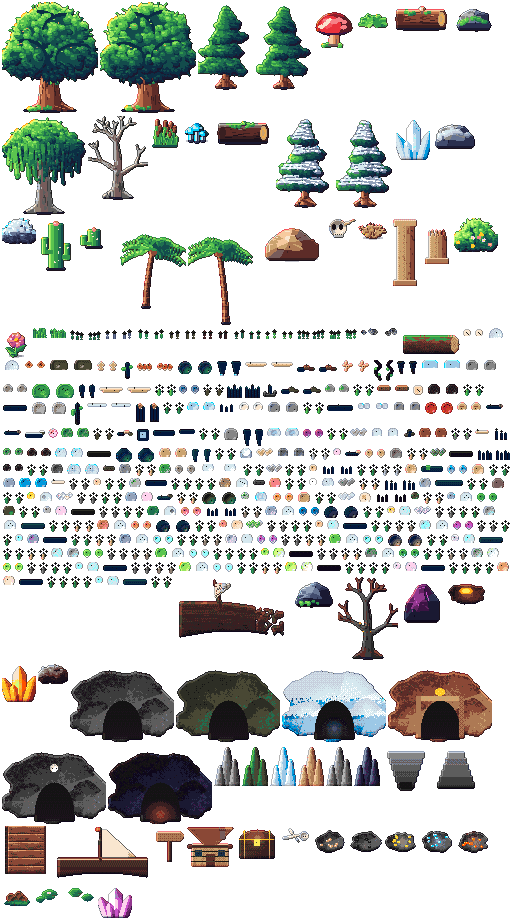
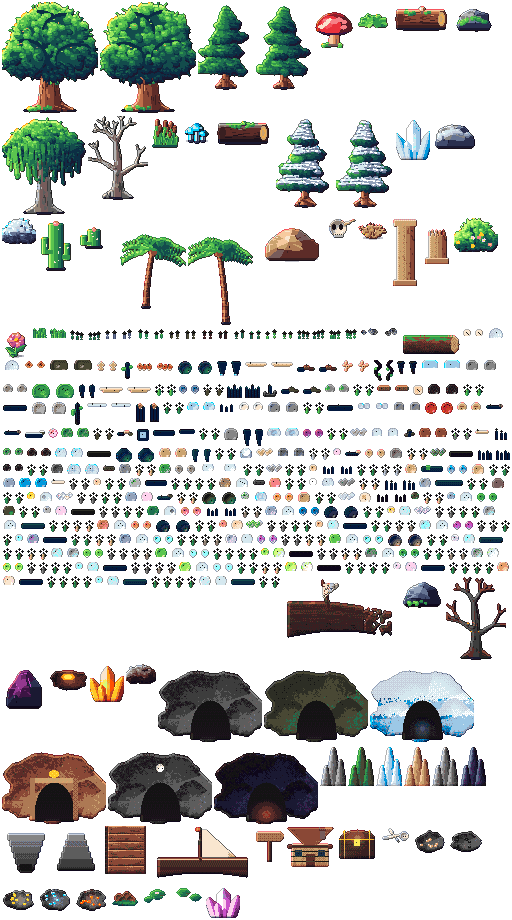
Ciclos 631-640/1000: 5 props (atlas 542) + testes raids/rebirth + evento escorpião dourado + dica

Changed region(s): [[0.0, 0.6087, 1.0, 1.0]]

diff --git a/src/game/RegionWorld.js b/src/game/RegionWorld.js
@@ -33,12 +33,12 @@ const INTERACT_RANGE = 70;
 
 // Objetos por terreno: [frame, peso, sólido?]. Sólido = base que bloqueia (largura, altura).
 const PROPS = {
-  [T.FOREST]: { density: 0.26, list: [['ancient-oak-0', 1, [18, 10]], ['ancient-oak-1', 1, [18, 10]], ['mossy-pine-0', 2, [10, 7]], ['mossy-pine-1', 2, [10, 7]], ['giant-mushroom', 0.6, [10, 6]], ['fern', 3], ['fallen-log', 0.6, [40, 10]], ['mossy-rock', 1, [24, 10]], ['grass-tuft-0', 4], ['grass-tuft-1', 4], ['flower-tuft-0', 1.2], ['flower-tuft-1', 1.2], ['forest-flower-0', 0.8], ['forest-flower-1', 0.8], ['pebbles-0', 0.7], ['pebbles-1', 0.7], ['mushroom-cluster-0', 0.5], ['mushroom-cluster-1', 0.5], ['berry-bush-0', 0.6], ['berry-bush-1', 0.6], ['yellow-flower-0', 0.7], ['yellow-flower-1', 0.7], ['bark-scrap-0', 0.5], ['bark-scrap-1', 0.5], ['pink-flower-0', 0.6], ['pink-flower-1', 0.6], ['rotten-log', 0.4, [30, 9]], ['red-cap-0', 0.4], ['red-cap-1', 0.4], ['tan-shroom-0', 0.4], ['tan-shroom-1', 0.4], ['orange-shroom-0', 0.4], ['orange-shroom-1', 0.4], ['pink-shroom-0', 0.4], ['pink-shroom-1', 0.4], ['coral-shroom-0', 0.4], ['coral-shroom-1', 0.4], ['violet-shroom-0', 0.4], ['violet-shroom-1', 0.4], ['lilac-shroom-0', 0.4], ['lilac-shroom-1', 0.4], ['light-green-shroom-0', 0.4], ['light-green-shroom-1', 0.4], ['mossy-log', 0.35, [28, 8]], ['light-purple-flower-0', 0.5], ['light-purple-flower-1', 0.5], ['peach-forest-flower-0', 0.5], ['peach-forest-flower-1', 0.5], ['blue-forest-flower-0', 0.5], ['blue-forest-flower-1', 0.5], ['teal-forest-flower-0', 0.5], ['teal-forest-flower-1', 0.5], ['hot-pink-flower-0', 0.5], ['hot-pink-flower-1', 0.5], ['turquoise-forest-flower-0', 0.5], ['turquoise-forest-flower-1', 0.5], ['lilac-forest-flower-0', 0.5], ['lilac-forest-flower-1', 0.5], ['light-green-forest-flower-0', 0.5], ['light-green-forest-flower-1', 0.5], ['pale-green-forest-flower-0', 0.5], ['pale-green-forest-flower-1', 0.5], ['pale-lilac-forest-flower-0', 0.5], ['pale-lilac-forest-flower-1', 0.5], ['pale-coral-forest-flower-0', 0.5], ['pale-coral-forest-flower-1', 0.5], ['pale-turquoise-forest-flower-0', 0.5], ['pale-turquoise-forest-flower-1', 0.5], ['dark-bark', 0.5], ['blush-forest-flower-0', 0.5], ['blush-forest-flower-1', 0.5], ['forest-gravel', 0.6], ['forest-branch', 0.5], ['yellow-forest-bush-0', 0.5], ['yellow-forest-bush-1', 0.5], ['rotten-forest-log', 0.3, [30, 9]], ['forest-boulder', 0.3, [14, 8]]] },
-  [T.SWAMP]: { density: 0.17, list: [['willow', 1.4, [14, 9]], ['dead-tree', 1.4, [10, 7]], ['reeds', 3], ['swamp-shroom', 1.2], ['bog-log', 0.5, [40, 10]], ['mossy-rock', 0.5, [24, 10]], ['grass-tuft-0', 3], ['flower-tuft-1', 0.6], ['swamp-flower-0', 0.6], ['swamp-flower-1', 0.6], ['mud-puddle-0', 0.5], ['mud-puddle-1', 0.5], ['twisted-root-0', 0.5], ['twisted-root-1', 0.5], ['river-stone-0', 0.5, [10, 6]], ['river-stone-1', 0.5, [10, 6]], ['blue-mushroom-0', 0.5], ['blue-mushroom-1', 0.5], ['moss-pebble-0', 0.6], ['moss-pebble-1', 0.6], ['reed-0', 0.7], ['reed-1', 0.7], ['green-stone-0', 0.5, [10, 6]], ['green-stone-1', 0.5, [10, 6]], ['lilac-flower-0', 0.5], ['lilac-flower-1', 0.5], ['swamp-root', 0.5], ['swamp-pebble-0', 0.5], ['swamp-pebble-1', 0.5], ['yellow-swamp-flower-0', 0.5], ['yellow-swamp-flower-1', 0.5], ['swamp-gravel', 0.6], ['pink-swamp-flower-0', 0.5], ['pink-swamp-flower-1', 0.5], ['dark-river-stone', 0.5, [10, 6]], ['gray-shroom-0', 0.4], ['gray-shroom-1', 0.4], ['green-shroom-0', 0.4], ['green-shroom-1', 0.4], ['navy-shroom-0', 0.4], ['navy-shroom-1', 0.4], ['turquoise-shroom-0', 0.4], ['turquoise-shroom-1', 0.4], ['teal-swamp-shroom-0', 0.4], ['teal-swamp-shroom-1', 0.4], ['sea-green-swamp-shroom-0', 0.4], ['sea-green-swamp-shroom-1', 0.4], ['dark-sea-green-swamp-shroom-0', 0.4], ['dark-sea-green-swamp-shroom-1', 0.4], ['light-green-swamp-shroom-0', 0.4], ['light-green-swamp-shroom-1', 0.4], ['light-sea-green-swamp-shroom-0', 0.4], ['light-sea-green-swamp-shroom-1', 0.4], ['white-swamp-flower-0', 0.5], ['white-swamp-flower-1', 0.5], ['light-blue-shroom-0', 0.4], ['light-blue-shroom-1', 0.4], ['light-river-stone', 0.5, [10, 6]], ['blue-swamp-flower-0', 0.5], ['blue-swamp-flower-1', 0.5], ['orange-swamp-flower-0', 0.5], ['orange-swamp-flower-1', 0.5], ['teal-swamp-flower-0', 0.5], ['teal-swamp-flower-1', 0.5], ['gold-swamp-flower-0', 0.5], ['gold-swamp-flower-1', 0.5], ['dark-purple-swamp-flower-0', 0.5], ['dark-purple-swamp-flower-1', 0.5], ['coral-swamp-flower-0', 0.5], ['coral-swamp-flower-1', 0.5], ['turquoise-swamp-flower-0', 0.5], ['turquoise-swamp-flower-1', 0.5], ['lilac-swamp-flower-0', 0.5], ['lilac-swamp-flower-1', 0.5], ['green-swamp-flower-0', 0.5], ['green-swamp-flower-1', 0.5], ['sea-green-swamp-flower-0', 0.5], ['sea-green-swamp-flower-1', 0.5], ['light-green-swamp-flower-0', 0.5], ['light-green-swamp-flower-1', 0.5], ['pale-lilac-swamp-flower-0', 0.5], ['pale-lilac-swamp-flower-1', 0.5], ['pale-coral-swamp-flower-0', 0.5], ['pale-coral-swamp-flower-1', 0.5], ['pale-turquoise-swamp-flower-0', 0.5], ['pale-turquoise-swamp-flower-1', 0.5], ['muddy-swamp-log', 0.3, [30, 9]], ['pale-swamp-log', 0.3, [30, 9]], ['white-flowered-swamp-bush-0', 0.4], ['white-flowered-swamp-bush-1', 0.4]] },
-  [T.SNOW]: { density: 0.15, list: [['snow-pine-0', 2, [10, 7]], ['snow-pine-1', 2, [10, 7]], ['ice-crystal', 1, [16, 8]], ['snow-rock', 1.4, [28, 10]], ['frozen-bush', 1.4], ['grass-tuft-1', 1.5], ['snow-flower-0', 0.8], ['snow-flower-1', 0.8], ['pebbles-0', 0.5], ['pebbles-1', 0.5], ['frozen-log', 0.5, [40, 10]], ['snow-mound-0', 0.6], ['snow-mound-1', 0.6], ['ice-shard-0', 0.6, [6, 10]], ['ice-shard-1', 0.6, [6, 10]], ['ice-spike-0', 0.6, [4, 8]], ['ice-spike-1', 0.6, [4, 8]], ['white-flower-0', 0.6], ['white-flower-1', 0.6], ['blue-ice-0', 0.5], ['blue-ice-1', 0.5], ['snow-track-0', 0.6], ['snow-track-1', 0.6], ['snow-branch', 0.4, [24, 10]], ['carved-ice', 0.4, [10, 10]], ['snow-hollow-0', 0.5], ['snow-hollow-1', 0.5], ['snow-pile-0', 0.5], ['snow-pile-1', 0.5], ['blue-snow-flower-0', 0.5], ['blue-snow-flower-1', 0.5], ['clear-ice-rock-0', 0.5, [10, 6]], ['clear-ice-rock-1', 0.5, [10, 6]], ['snow-covered-rock', 0.4, [12, 7]], ['lilac-ice-flower-0', 0.5], ['lilac-ice-flower-1', 0.5], ['ice-log', 0.35, [30, 9]], ['cracked-ice-0', 0.5], ['cracked-ice-1', 0.5], ['wind-snow-0', 0.5], ['wind-snow-1', 0.5], ['mint-ice-flower-0', 0.5], ['mint-ice-flower-1', 0.5], ['deep-blue-ice-0', 0.5], ['deep-blue-ice-1', 0.5], ['flowered-snow', 0.5], ['pale-blue-ice', 0.5], ['gray-snow-rock', 0.5, [10, 6]], ['pebbled-snow', 0.5], ['pink-ice', 0.4, [10, 6]], ['shattered-ice', 0.5], ['snow-gravel', 0.6], ['blue-flowered-snow', 0.5], ['lilac-ice', 0.4, [10, 6]], ['dark-pebbled-snow', 0.5], ['pink-flowered-snow', 0.5], ['teal-ice', 0.4, [10, 6]], ['yellow-flowered-snow', 0.5], ['green-flowered-snow', 0.5], ['coral-ice', 0.4, [10, 6]], ['turquoise-ice', 0.4, [10, 6]], ['turquoise-flowered-snow', 0.5], ['dark-lilac-ice', 0.4, [10, 6]], ['lilac-flowered-snow', 0.5], ['pale-teal-ice', 0.4, [10, 6]], ['coral-flowered-snow', 0.5], ['green-ice', 0.4, [10, 6]], ['dark-teal-ice', 0.4, [10, 6]], ['sea-green-flowered-snow', 0.5], ['light-green-ice', 0.4, [10, 6]], ['light-green-flowered-snow', 0.5], ['pale-green-ice', 0.4, [10, 6]], ['light-sea-green-ice', 0.4, [10, 6]], ['pale-green-flowered-snow', 0.5], ['pale-green-ice-2', 0.4, [10, 6]], ['pale-lilac-ice', 0.4, [10, 6]], ['pale-coral-ice', 0.4, [10, 6]], ['pale-turquoise-ice', 0.4, [10, 6]]] },
+  [T.FOREST]: { density: 0.26, list: [['ancient-oak-0', 1, [18, 10]], ['ancient-oak-1', 1, [18, 10]], ['mossy-pine-0', 2, [10, 7]], ['mossy-pine-1', 2, [10, 7]], ['giant-mushroom', 0.6, [10, 6]], ['fern', 3], ['fallen-log', 0.6, [40, 10]], ['mossy-rock', 1, [24, 10]], ['grass-tuft-0', 4], ['grass-tuft-1', 4], ['flower-tuft-0', 1.2], ['flower-tuft-1', 1.2], ['forest-flower-0', 0.8], ['forest-flower-1', 0.8], ['pebbles-0', 0.7], ['pebbles-1', 0.7], ['mushroom-cluster-0', 0.5], ['mushroom-cluster-1', 0.5], ['berry-bush-0', 0.6], ['berry-bush-1', 0.6], ['yellow-flower-0', 0.7], ['yellow-flower-1', 0.7], ['bark-scrap-0', 0.5], ['bark-scrap-1', 0.5], ['pink-flower-0', 0.6], ['pink-flower-1', 0.6], ['rotten-log', 0.4, [30, 9]], ['red-cap-0', 0.4], ['red-cap-1', 0.4], ['tan-shroom-0', 0.4], ['tan-shroom-1', 0.4], ['orange-shroom-0', 0.4], ['orange-shroom-1', 0.4], ['pink-shroom-0', 0.4], ['pink-shroom-1', 0.4], ['coral-shroom-0', 0.4], ['coral-shroom-1', 0.4], ['violet-shroom-0', 0.4], ['violet-shroom-1', 0.4], ['lilac-shroom-0', 0.4], ['lilac-shroom-1', 0.4], ['light-green-shroom-0', 0.4], ['light-green-shroom-1', 0.4], ['mossy-log', 0.35, [28, 8]], ['light-purple-flower-0', 0.5], ['light-purple-flower-1', 0.5], ['peach-forest-flower-0', 0.5], ['peach-forest-flower-1', 0.5], ['blue-forest-flower-0', 0.5], ['blue-forest-flower-1', 0.5], ['teal-forest-flower-0', 0.5], ['teal-forest-flower-1', 0.5], ['hot-pink-flower-0', 0.5], ['hot-pink-flower-1', 0.5], ['turquoise-forest-flower-0', 0.5], ['turquoise-forest-flower-1', 0.5], ['lilac-forest-flower-0', 0.5], ['lilac-forest-flower-1', 0.5], ['light-green-forest-flower-0', 0.5], ['light-green-forest-flower-1', 0.5], ['pale-green-forest-flower-0', 0.5], ['pale-green-forest-flower-1', 0.5], ['pale-lilac-forest-flower-0', 0.5], ['pale-lilac-forest-flower-1', 0.5], ['pale-coral-forest-flower-0', 0.5], ['pale-coral-forest-flower-1', 0.5], ['pale-turquoise-forest-flower-0', 0.5], ['pale-turquoise-forest-flower-1', 0.5], ['pale-sea-green-forest-flower-0', 0.5], ['pale-sea-green-forest-flower-1', 0.5], ['dark-bark', 0.5], ['blush-forest-flower-0', 0.5], ['blush-forest-flower-1', 0.5], ['forest-gravel', 0.6], ['forest-branch', 0.5], ['yellow-forest-bush-0', 0.5], ['yellow-forest-bush-1', 0.5], ['rotten-forest-log', 0.3, [30, 9]], ['forest-boulder', 0.3, [14, 8]]] },
+  [T.SWAMP]: { density: 0.17, list: [['willow', 1.4, [14, 9]], ['dead-tree', 1.4, [10, 7]], ['reeds', 3], ['swamp-shroom', 1.2], ['bog-log', 0.5, [40, 10]], ['mossy-rock', 0.5, [24, 10]], ['grass-tuft-0', 3], ['flower-tuft-1', 0.6], ['swamp-flower-0', 0.6], ['swamp-flower-1', 0.6], ['mud-puddle-0', 0.5], ['mud-puddle-1', 0.5], ['twisted-root-0', 0.5], ['twisted-root-1', 0.5], ['river-stone-0', 0.5, [10, 6]], ['river-stone-1', 0.5, [10, 6]], ['blue-mushroom-0', 0.5], ['blue-mushroom-1', 0.5], ['moss-pebble-0', 0.6], ['moss-pebble-1', 0.6], ['reed-0', 0.7], ['reed-1', 0.7], ['green-stone-0', 0.5, [10, 6]], ['green-stone-1', 0.5, [10, 6]], ['lilac-flower-0', 0.5], ['lilac-flower-1', 0.5], ['swamp-root', 0.5], ['swamp-pebble-0', 0.5], ['swamp-pebble-1', 0.5], ['yellow-swamp-flower-0', 0.5], ['yellow-swamp-flower-1', 0.5], ['swamp-gravel', 0.6], ['pink-swamp-flower-0', 0.5], ['pink-swamp-flower-1', 0.5], ['dark-river-stone', 0.5, [10, 6]], ['gray-shroom-0', 0.4], ['gray-shroom-1', 0.4], ['green-shroom-0', 0.4], ['green-shroom-1', 0.4], ['navy-shroom-0', 0.4], ['navy-shroom-1', 0.4], ['turquoise-shroom-0', 0.4], ['turquoise-shroom-1', 0.4], ['teal-swamp-shroom-0', 0.4], ['teal-swamp-shroom-1', 0.4], ['sea-green-swamp-shroom-0', 0.4], ['sea-green-swamp-shroom-1', 0.4], ['dark-sea-green-swamp-shroom-0', 0.4], ['dark-sea-green-swamp-shroom-1', 0.4], ['light-green-swamp-shroom-0', 0.4], ['light-green-swamp-shroom-1', 0.4], ['light-sea-green-swamp-shroom-0', 0.4], ['light-sea-green-swamp-shroom-1', 0.4], ['white-swamp-flower-0', 0.5], ['white-swamp-flower-1', 0.5], ['light-blue-shroom-0', 0.4], ['light-blue-shroom-1', 0.4], ['light-river-stone', 0.5, [10, 6]], ['blue-swamp-flower-0', 0.5], ['blue-swamp-flower-1', 0.5], ['orange-swamp-flower-0', 0.5], ['orange-swamp-flower-1', 0.5], ['teal-swamp-flower-0', 0.5], ['teal-swamp-flower-1', 0.5], ['gold-swamp-flower-0', 0.5], ['gold-swamp-flower-1', 0.5], ['dark-purple-swamp-flower-0', 0.5], ['dark-purple-swamp-flower-1', 0.5], ['coral-swamp-flower-0', 0.5], ['coral-swamp-flower-1', 0.5], ['turquoise-swamp-flower-0', 0.5], ['turquoise-swamp-flower-1', 0.5], ['lilac-swamp-flower-0', 0.5], ['lilac-swamp-flower-1', 0.5], ['green-swamp-flower-0', 0.5], ['green-swamp-flower-1', 0.5], ['sea-green-swamp-flower-0', 0.5], ['sea-green-swamp-flower-1', 0.5], ['light-green-swamp-flower-0', 0.5], ['light-green-swamp-flower-1', 0.5], ['pale-lilac-swamp-flower-0', 0.5], ['pale-lilac-swamp-flower-1', 0.5], ['pale-coral-swamp-flower-0', 0.5], ['pale-coral-swamp-flower-1', 0.5], ['pale-turquoise-swamp-flower-0', 0.5], ['pale-turquoise-swamp-flower-1', 0.5], ['pale-sea-green-swamp-flower-0', 0.5], ['pale-sea-green-swamp-flower-1', 0.5], ['muddy-swamp-log', 0.3, [30, 9]], ['pale-swamp-log', 0.3, [30, 9]], ['white-flowered-swamp-bush-0', 0.4], ['white-flowered-swamp-bush-1', 0.4]] },
+  [T.SNOW]: { density: 0.15, list: [['snow-pine-0', 2, [10, 7]], ['snow-pine-1', 2, [10, 7]], ['ice-crystal', 1, [16, 8]], ['snow-rock', 1.4, [28, 10]], ['frozen-bush', 1.4], ['grass-tuft-1', 1.5], ['snow-flower-0', 0.8], ['snow-flower-1', 0.8], ['pebbles-0', 0.5], ['pebbles-1', 0.5], ['frozen-log', 0.5, [40, 10]], ['snow-mound-0', 0.6], ['snow-mound-1', 0.6], ['ice-shard-0', 0.6, [6, 10]], ['ice-shard-1', 0.6, [6, 10]], ['ice-spike-0', 0.6, [4, 8]], ['ice-spike-1', 0.6, [4, 8]], ['white-flower-0', 0.6], ['white-flower-1', 0.6], ['blue-ice-0', 0.5], ['blue-ice-1', 0.5], ['snow-track-0', 0.6], ['snow-track-1', 0.6], ['snow-branch', 0.4, [24, 10]], ['carved-ice', 0.4, [10, 10]], ['snow-hollow-0', 0.5], ['snow-hollow-1', 0.5], ['snow-pile-0', 0.5], ['snow-pile-1', 0.5], ['blue-snow-flower-0', 0.5], ['blue-snow-flower-1', 0.5], ['clear-ice-rock-0', 0.5, [10, 6]], ['clear-ice-rock-1', 0.5, [10, 6]], ['snow-covered-rock', 0.4, [12, 7]], ['lilac-ice-flower-0', 0.5], ['lilac-ice-flower-1', 0.5], ['ice-log', 0.35, [30, 9]], ['cracked-ice-0', 0.5], ['cracked-ice-1', 0.5], ['wind-snow-0', 0.5], ['wind-snow-1', 0.5], ['mint-ice-flower-0', 0.5], ['mint-ice-flower-1', 0.5], ['deep-blue-ice-0', 0.5], ['deep-blue-ice-1', 0.5], ['flowered-snow', 0.5], ['pale-blue-ice', 0.5], ['gray-snow-rock', 0.5, [10, 6]], ['pebbled-snow', 0.5], ['pink-ice', 0.4, [10, 6]], ['shattered-ice', 0.5], ['snow-gravel', 0.6], ['blue-flowered-snow', 0.5], ['lilac-ice', 0.4, [10, 6]], ['dark-pebbled-snow', 0.5], ['pink-flowered-snow', 0.5], ['teal-ice', 0.4, [10, 6]], ['yellow-flowered-snow', 0.5], ['green-flowered-snow', 0.5], ['coral-ice', 0.4, [10, 6]], ['turquoise-ice', 0.4, [10, 6]], ['turquoise-flowered-snow', 0.5], ['dark-lilac-ice', 0.4, [10, 6]], ['lilac-flowered-snow', 0.5], ['pale-teal-ice', 0.4, [10, 6]], ['coral-flowered-snow', 0.5], ['green-ice', 0.4, [10, 6]], ['dark-teal-ice', 0.4, [10, 6]], ['sea-green-flowered-snow', 0.5], ['light-green-ice', 0.4, [10, 6]], ['light-green-flowered-snow', 0.5], ['pale-green-ice', 0.4, [10, 6]], ['light-sea-green-ice', 0.4, [10, 6]], ['pale-green-flowered-snow', 0.5], ['pale-green-ice-2', 0.4, [10, 6]], ['pale-lilac-ice', 0.4, [10, 6]], ['pale-coral-ice', 0.4, [10, 6]], ['pale-turquoise-ice', 0.4, [10, 6]], ['pale-sea-green-ice', 0.4, [10, 6]]] },
   [T.SAND]: { density: 0.07, list: [['cactus', 2, [12, 7]], ['cactus-small', 2, [10, 6]], ['desert-rock', 1, [40, 12]], ['skull', 0.7], ['dry-bush', 2], ['ruin-pillar', 0.3, [18, 8]], ['ruin-pillar-broken', 0.4, [18, 8]], ['grass-tuft-0', 1.5], ['dune-flower-0', 0.7], ['dune-flower-1', 0.7], ['pebbles-0', 0.6], ['pebbles-1', 0.6], ['blooming-cactus', 0.4, [12, 7]], ['tall-cactus', 0.35, [10, 12]], ['footprint-0', 0.4], ['footprint-1', 0.4], ['desert-bloom-0', 0.5], ['desert-bloom-1', 0.5], ['carved-pebble-0', 0.5], ['carved-pebble-1', 0.5], ['dry-log', 0.4, [28, 8]], ['white-desert-flower-0', 0.5], ['white-desert-flower-1', 0.5], ['desert-stone-0', 0.5, [10, 6]], ['desert-stone-1', 0.5, [10, 6]], ['pink-dune-flower-0', 0.5], ['pink-dune-flower-1', 0.5], ['lilac-dune-flower-0', 0.5], ['lilac-dune-flower-1', 0.5], ['red-dune-flower-0', 0.5], ['red-dune-flower-1', 0.5], ['white-dune-flower-0', 0.5], ['white-dune-flower-1', 0.5], ['magenta-dune-flower-0', 0.5], ['magenta-dune-flower-1', 0.5], ['coral-dune-flower-0', 0.5], ['coral-dune-flower-1', 0.5], ['turquoise-dune-flower-0', 0.5], ['turquoise-dune-flower-1', 0.5], ['light-coral-dune-flower-0', 0.5], ['light-coral-dune-flower-1', 0.5], ['sea-green-dune-flower-0', 0.5], ['sea-green-dune-flower-1', 0.5], ['light-green-dune-flower-0', 0.5], ['light-green-dune-flower-1', 0.5], ['green-dune-stone', 0.5, [10, 6]], ['sea-green-dune-stone', 0.5, [10, 6]], ['light-green-dune-stone', 0.5, [10, 6]], ['pale-green-dune-flower-0', 0.5], ['pale-green-dune-flower-1', 0.5], ['lilac-dune-stone', 0.5, [10, 6]], ['flowered-dune-bush-0', 0.4], ['flowered-dune-bush-1', 0.4]] },
-  [T.DUNE]: { density: 0.03, list: [['dry-bush', 1], ['skull', 0.4], ['cactus-small', 0.5, [10, 6]], ['grass-tuft-1', 1], ['dune-flower-0', 0.5], ['dune-flower-1', 0.5], ['footprint-0', 0.5], ['footprint-1', 0.5], ['small-rock-0', 0.5], ['small-rock-1', 0.5], ['dune-wave-0', 0.6], ['dune-wave-1', 0.6], ['tall-grass-0', 0.6], ['tall-grass-1', 0.6], ['dry-bush-2', 0.7], ['dune-root', 0.5], ['dune-bloom', 0.5], ['dune-gravel', 0.6], ['dry-branch', 0.5], ['light-dune-pebble', 0.6], ['round-dune-rock', 0.4, [12, 7]], ['pink-dune-pebble', 0.6], ['dark-dune-stone', 0.5, [10, 6]], ['gold-dune-pebble', 0.6], ['dark-round-dune-rock', 0.4, [12, 7]], ['gray-dune-pebble', 0.6], ['dry-dune-bush-0', 0.5], ['dry-dune-bush-1', 0.5], ['lavender-dune-stone', 0.5, [10, 6]], ['lilac-dune-gravel', 0.6], ['coral-dune-pebble', 0.6], ['turquoise-dune-stone', 0.5, [10, 6]], ['lilac-dune-log', 0.3, [30, 9]], ['coral-dune-log', 0.3, [30, 9]], ['turquoise-dune-log', 0.3, [30, 9]], ['pale-dune-log', 0.3, [30, 9]]] },
-  [T.BEACH]: { density: 0.06, list: [['palm-0', 1.5, [8, 6]], ['palm-1', 1.5, [8, 6]], ['sea-rock', 1, [28, 10]], ['big-flower', 0.3], ['flower-tuft-0', 1.5], ['grass-tuft-0', 2], ['beach-flower-0', 0.7], ['beach-flower-1', 0.7], ['shell-0', 0.6], ['shell-1', 0.6], ['sand-ripple-0', 0.8], ['sand-ripple-1', 0.8], ['starfish-0', 0.4], ['starfish-1', 0.4], ['tide-puddle-0', 0.4], ['tide-puddle-1', 0.4], ['broken-anchor', 0.25, [12, 10]], ['spiral-shell', 0.4], ['beach-boulder-0', 0.3, [14, 8]], ['beach-boulder-1', 0.3, [14, 8]], ['sea-foam-0', 0.5], ['sea-foam-1', 0.5], ['pale-stone-0', 0.5], ['pale-stone-1', 0.5], ['tide-rock-0', 0.5, [10, 6]], ['tide-rock-1', 0.5, [10, 6]], ['pink-shell', 0.4], ['driftwood', 0.4], ['beach-gravel', 0.6], ['pale-bark', 0.4], ['wreck-log', 0.3, [30, 9]], ['wet-stone-0', 0.5, [10, 6]], ['wet-stone-1', 0.5, [10, 6]], ['pink-pebble', 0.5], ['sea-grass-0', 0.6], ['sea-grass-1', 0.6], ['shipwreck', 0.2, [30, 12]], ['blue-gray-stone', 0.5, [10, 6]], ['green-beach-stone', 0.5, [10, 6]], ['dry-sea-bush-0', 0.5], ['dry-sea-bush-1', 0.5], ['yellow-beach-stone', 0.5, [10, 6]], ['light-beach-bark', 0.4], ['pale-green-stone', 0.5, [10, 6]], ['rose-beach-stone', 0.5, [10, 6]], ['white-beach-pebble', 0.6], ['pink-sea-bush-0', 0.5], ['pink-sea-bush-1', 0.5], ['long-beach-log', 0.25, [34, 8]], ['colorful-beach-gravel', 0.6], ['lilac-beach-stone', 0.5, [10, 6]], ['green-beach-pebble', 0.6], ['big-shell', 0.35, [10, 8]], ['blue-beach-pebble', 0.6], ['dark-beach-log', 0.25, [30, 9]], ['dark-green-beach-stone', 0.5, [10, 6]], ['coral-beach-flower-0', 0.5], ['coral-beach-flower-1', 0.5], ['gold-beach-pebble', 0.6], ['teal-beach-stone', 0.5, [10, 6]], ['coral-beach-stone', 0.5, [10, 6]], ['coral-beach-pebble', 0.6], ['green-beach-gravel', 0.6], ['turquoise-beach-pebble', 0.6], ['dark-lilac-beach-stone', 0.5, [10, 6]], ['light-lilac-beach-pebble', 0.6], ['light-green-beach-pebble', 0.6], ['muddy-beach-log', 0.25, [30, 9]], ['lilac-beach-flower-0', 0.5], ['lilac-beach-flower-1', 0.5], ['green-beach-flower-0', 0.5], ['green-beach-flower-1', 0.5], ['light-green-beach-stone', 0.5, [10, 6]], ['sea-green-beach-stone', 0.5, [10, 6]], ['sea-green-beach-flower-0', 0.5], ['sea-green-beach-flower-1', 0.5], ['dark-sea-green-beach-stone', 0.5, [10, 6]], ['light-green-beach-flower-0', 0.5], ['light-green-beach-flower-1', 0.5], ['pale-green-beach-flower-0', 0.5], ['pale-green-beach-flower-1', 0.5], ['pale-green-beach-stone', 0.5, [10, 6]], ['pale-lilac-beach-pebble', 0.6], ['pale-coral-beach-stone', 0.5, [10, 6]], ['pale-turquoise-beach-pebble', 0.6], ['light-sea-green-beach-pebble', 0.6]] },
+  [T.DUNE]: { density: 0.03, list: [['dry-bush', 1], ['skull', 0.4], ['cactus-small', 0.5, [10, 6]], ['grass-tuft-1', 1], ['dune-flower-0', 0.5], ['dune-flower-1', 0.5], ['footprint-0', 0.5], ['footprint-1', 0.5], ['small-rock-0', 0.5], ['small-rock-1', 0.5], ['dune-wave-0', 0.6], ['dune-wave-1', 0.6], ['tall-grass-0', 0.6], ['tall-grass-1', 0.6], ['dry-bush-2', 0.7], ['dune-root', 0.5], ['dune-bloom', 0.5], ['dune-gravel', 0.6], ['dry-branch', 0.5], ['light-dune-pebble', 0.6], ['round-dune-rock', 0.4, [12, 7]], ['pink-dune-pebble', 0.6], ['dark-dune-stone', 0.5, [10, 6]], ['gold-dune-pebble', 0.6], ['dark-round-dune-rock', 0.4, [12, 7]], ['gray-dune-pebble', 0.6], ['dry-dune-bush-0', 0.5], ['dry-dune-bush-1', 0.5], ['lavender-dune-stone', 0.5, [10, 6]], ['lilac-dune-gravel', 0.6], ['coral-dune-pebble', 0.6], ['turquoise-dune-stone', 0.5, [10, 6]], ['lilac-dune-log', 0.3, [30, 9]], ['coral-dune-log', 0.3, [30, 9]], ['turquoise-dune-log', 0.3, [30, 9]], ['sea-green-dune-log', 0.3, [30, 9]], ['pale-dune-log', 0.3, [30, 9]]] },
+  [T.BEACH]: { density: 0.06, list: [['palm-0', 1.5, [8, 6]], ['palm-1', 1.5, [8, 6]], ['sea-rock', 1, [28, 10]], ['big-flower', 0.3], ['flower-tuft-0', 1.5], ['grass-tuft-0', 2], ['beach-flower-0', 0.7], ['beach-flower-1', 0.7], ['shell-0', 0.6], ['shell-1', 0.6], ['sand-ripple-0', 0.8], ['sand-ripple-1', 0.8], ['starfish-0', 0.4], ['starfish-1', 0.4], ['tide-puddle-0', 0.4], ['tide-puddle-1', 0.4], ['broken-anchor', 0.25, [12, 10]], ['spiral-shell', 0.4], ['beach-boulder-0', 0.3, [14, 8]], ['beach-boulder-1', 0.3, [14, 8]], ['sea-foam-0', 0.5], ['sea-foam-1', 0.5], ['pale-stone-0', 0.5], ['pale-stone-1', 0.5], ['tide-rock-0', 0.5, [10, 6]], ['tide-rock-1', 0.5, [10, 6]], ['pink-shell', 0.4], ['driftwood', 0.4], ['beach-gravel', 0.6], ['pale-bark', 0.4], ['wreck-log', 0.3, [30, 9]], ['wet-stone-0', 0.5, [10, 6]], ['wet-stone-1', 0.5, [10, 6]], ['pink-pebble', 0.5], ['sea-grass-0', 0.6], ['sea-grass-1', 0.6], ['shipwreck', 0.2, [30, 12]], ['blue-gray-stone', 0.5, [10, 6]], ['green-beach-stone', 0.5, [10, 6]], ['dry-sea-bush-0', 0.5], ['dry-sea-bush-1', 0.5], ['yellow-beach-stone', 0.5, [10, 6]], ['light-beach-bark', 0.4], ['pale-green-stone', 0.5, [10, 6]], ['rose-beach-stone', 0.5, [10, 6]], ['white-beach-pebble', 0.6], ['pink-sea-bush-0', 0.5], ['pink-sea-bush-1', 0.5], ['long-beach-log', 0.25, [34, 8]], ['colorful-beach-gravel', 0.6], ['lilac-beach-stone', 0.5, [10, 6]], ['green-beach-pebble', 0.6], ['big-shell', 0.35, [10, 8]], ['blue-beach-pebble', 0.6], ['dark-beach-log', 0.25, [30, 9]], ['dark-green-beach-stone', 0.5, [10, 6]], ['coral-beach-flower-0', 0.5], ['coral-beach-flower-1', 0.5], ['gold-beach-pebble', 0.6], ['teal-beach-stone', 0.5, [10, 6]], ['coral-beach-stone', 0.5, [10, 6]], ['coral-beach-pebble', 0.6], ['green-beach-gravel', 0.6], ['turquoise-beach-pebble', 0.6], ['dark-lilac-beach-stone', 0.5, [10, 6]], ['light-lilac-beach-pebble', 0.6], ['light-green-beach-pebble', 0.6], ['muddy-beach-log', 0.25, [30, 9]], ['lilac-beach-flower-0', 0.5], ['lilac-beach-flower-1', 0.5], ['green-beach-flower-0', 0.5], ['green-beach-flower-1', 0.5], ['light-green-beach-stone', 0.5, [10, 6]], ['sea-green-beach-stone', 0.5, [10, 6]], ['sea-green-beach-flower-0', 0.5], ['sea-green-beach-flower-1', 0.5], ['dark-sea-green-beach-stone', 0.5, [10, 6]], ['light-green-beach-flower-0', 0.5], ['light-green-beach-flower-1', 0.5], ['pale-green-beach-flower-0', 0.5], ['pale-green-beach-flower-1', 0.5], ['pale-green-beach-stone', 0.5, [10, 6]], ['pale-lilac-beach-pebble', 0.6], ['pale-coral-beach-stone', 0.5, [10, 6]], ['pale-turquoise-beach-pebble', 0.6], ['pale-sea-green-beach-stone', 0.5, [10, 6]], ['light-sea-green-beach-pebble', 0.6]] },
   [T.JUNGLE]: { density: 0.17, list: [['palm-0', 1.5, [8, 6]], ['palm-1', 1.5, [8, 6]], ['tropical-bush', 3], ['big-flower', 2], ['sea-rock', 0.4, [28, 10]], ['grass-tuft-0', 3], ['grass-tuft-1', 3], ['flower-tuft-1', 2], ['jungle-flower-0', 0.8], ['jungle-flower-1', 0.8], ['vine-0', 0.7], ['vine-1', 0.7], ['jungle-root-0', 0.5], ['jungle-root-1', 0.5], ['purple-flower-0', 0.6], ['purple-flower-1', 0.6], ['jungle-log', 0.4, [32, 9]], ['purple-shroom-0', 0.4], ['purple-shroom-1', 0.4], ['jungle-bush-0', 0.6], ['jungle-bush-1', 0.6], ['orange-jungle-flower-0', 0.5], ['orange-jungle-flower-1', 0.5], ['yellow-jungle-flower-0', 0.5], ['yellow-jungle-flower-1', 0.5], ['pink-jungle-flower-0', 0.5], ['pink-jungle-flower-1', 0.5], ['coral-jungle-flower-0', 0.5], ['coral-jungle-flower-1', 0.5], ['gold-jungle-flower-0', 0.5], ['gold-jungle-flower-1', 0.5], ['turquoise-jungle-flower-0', 0.5], ['turquoise-jungle-flower-1', 0.5], ['mossy-jungle-log', 0.3, [30, 9]], ['sea-green-jungle-flower-0', 0.5], ['sea-green-jungle-flower-1', 0.5], ['light-green-jungle-flower-0', 0.5], ['light-green-jungle-flower-1', 0.5], ['pale-green-jungle-flower-0', 0.5], ['pale-green-jungle-flower-1', 0.5], ['dark-jungle-pebble', 0.6], ['mossy-jungle-stone', 0.5, [10, 6]]] },
   [T.ASH]: { density: 0.11, list: [['charred-tree', 2, [10, 7]], ['obsidian', 2, [28, 12]], ['lava-vent', 1], ['fire-crystal', 0.8, [14, 8]], ['ash-bush', 2], ['grass-tuft-1', 0.8], ['ash-flower-0', 0.5], ['ash-flower-1', 0.5], ['pebbles-0', 0.5], ['pebbles-1', 0.5], ['ember-0', 0.8], ['ember-1', 0.8], ['obsidian-shard-0', 0.5, [5, 8]], ['obsidian-shard-1', 0.5, [5, 8]], ['ember-flower-0', 0.5], ['ember-flower-1', 0.5], ['lava-rock-0', 0.5, [12, 6]], ['lava-rock-1', 0.5, [12, 6]], ['granite-0', 0.5, [12, 6]], ['granite-1', 0.5, [12, 6]], ['orange-flower-0', 0.5], ['orange-flower-1', 0.5], ['ash-spike-0', 0.5, [5, 10]], ['ash-spike-1', 0.5, [5, 10]], ['red-stone-0', 0.5, [10, 6]], ['red-stone-1', 0.5, [10, 6]], ['hot-ash-0', 0.6], ['hot-ash-1', 0.6], ['ash-crystal-0', 0.4, [5, 8]], ['ash-crystal-1', 0.4, [5, 8]], ['pale-ash-rock', 0.4, [12, 7]], ['small-lava-rock-0', 0.5], ['small-lava-rock-1', 0.5], ['light-ash-gravel', 0.6], ['white-ash-flower-0', 0.5], ['white-ash-flower-1', 0.5], ['ash-log', 0.35, [28, 8]], ['ash-bark', 0.5], ['red-ash-rock', 0.4, [12, 7]], ['orange-ash-flower-0', 0.5], ['orange-ash-flower-1', 0.5], ['dry-ash-bush-0', 0.5], ['dry-ash-bush-1', 0.5], ['pink-ash-flower-0', 0.5], ['pink-ash-flower-1', 0.5], ['flowered-ash-bush-0', 0.4], ['flowered-ash-bush-1', 0.4], ['pale-ash-log', 0.3, [30, 9]], ['yellow-ash-flower-0', 0.5], ['yellow-ash-flower-1', 0.5], ['teal-ash-flower-0', 0.5], ['teal-ash-flower-1', 0.5], ['coral-ash-flower-0', 0.5], ['coral-ash-flower-1', 0.5], ['green-ash-flower-0', 0.5], ['green-ash-flower-1', 0.5], ['sea-green-ash-flower-0', 0.5], ['sea-green-ash-flower-1', 0.5], ['light-green-ash-flower-0', 0.5], ['light-green-ash-flower-1', 0.5], ['light-sea-green-ash-flower-0', 0.5], ['light-sea-green-ash-flower-1', 0.5], ['pale-green-ash-flower-0', 0.5], ['pale-green-ash-flower-1', 0.5]] },
 };

diff --git a/src/art/biomeProps.js b/src/art/biomeProps.js
@@ -1252,6 +1252,49 @@ function paleTurquoiseForestFlower(seed = 2457) {
   return finish(p, { outline: 0.3 });
 }
 
+/** Flor verde-água clara clara do brejo. */
+function paleSeaGreenSwampFlower(seed = 2467) {
+  const p = new Painter(10, 12, { transparent: true });
+  p.rect(4, 6, 2, 5, '#4a6a34');
+  for (const [dx, dy] of [[-3, -2], [3, -2], [-2, 2], [2, 2], [0, -4]]) p.set(5 + dx, 5 + dy, '#a8ecd8');
+  p.set(5, 5, '#f8fffc');
+  return finish(p, { outline: 0.3 });
+}
+
+/** Pedra verde-água clara clara de praia. */
+function paleSeaGreenBeachStone(seed = 2471) {
+  const p = new Painter(14, 9, { transparent: true });
+  p.sphere(7, 5, 5, '#a8d0c4', '#c8e8e0');
+  p.set(5, 3, '#e8f8f4');
+  return finish(p, { outline: 0.35 });
+}
+
+/** Gelo verde-água claro claro (neve). */
+function paleSeaGreenIce(seed = 2477) {
+  const p = new Painter(14, 9, { transparent: true });
+  p.sphere(7, 5, 5, '#c8e8e0', '#e4f6f2');
+  p.set(5, 3, '#ffffff');
+  return finish(p, { outline: 0.35 });
+}
+
+/** Tronco verde-água de duna. */
+function seaGreenDuneLog(seed = 2481) {
+  const p = new Painter(26, 10, { transparent: true });
+  const wood = ['#98b8a8', '#b4d0c0'];
+  p.rect(2, 4, 22, 4, shade([wood[0], wood[1]], 0.5));
+  p.set(2, 4, '#78988a'); p.set(23, 7, '#78988a');
+  return finish(p, { outline: 0.35 });
+}
+
+/** Flor verde-água clara clara da floresta. */
+function paleSeaGreenForestFlower(seed = 2487) {
+  const p = new Painter(10, 12, { transparent: true });
+  p.rect(4, 6, 2, 5, '#4a6a34');
+  for (const [dx, dy] of [[-3, -2], [3, -2], [-2, 2], [2, 2], [0, -4]]) p.set(5 + dx, 5 + dy, '#a8ecd8');
+  p.set(5, 5, '#f8fffc');
+  return finish(p, { outline: 0.3 });
+}
+
 function seaGreenSwampFlower(seed = 2197) {
   const p = new Painter(10, 12, { transparent: true });
   p.rect(4, 6, 2, 5, '#4a6a34');
@@ -4067,6 +4110,13 @@ const PAINTED_ENTRIES = [
   { name: 'turquoise-dune-log', draw: () => turquoiseDuneLog(2451) },
   { name: 'pale-turquoise-forest-flower-0', draw: () => paleTurquoiseForestFlower(2457) },
   { name: 'pale-turquoise-forest-flower-1', draw: () => paleTurquoiseForestFlower(2459) },
+  { name: 'pale-sea-green-swamp-flower-0', draw: () => paleSeaGreenSwampFlower(2467) },
+  { name: 'pale-sea-green-swamp-flower-1', draw: () => paleSeaGreenSwampFlower(2469) },
+  { name: 'pale-sea-green-beach-stone', draw: () => paleSeaGreenBeachStone(2471) },
+  { name: 'pale-sea-green-ice', draw: () => paleSeaGreenIce(2477) },
+  { name: 'sea-green-dune-log', draw: () => seaGreenDuneLog(2481) },
+  { name: 'pale-sea-green-forest-flower-0', draw: () => paleSeaGreenForestFlower(2487) },
+  { name: 'pale-sea-green-forest-flower-1', draw: () => paleSeaGreenForestFlower(2489) },
   { name: 'shipwreck', draw: shipwreck },
   { name: 'sea-rock', draw: seaRock },
   { name: 'charred-tree', draw: () => deadTree(['#0c0808', '#1a1010', '#2a1a16', '#3a2620', '#4a3228'], true) },

diff --git a/tests/simulacao.test.js b/tests/simulacao.test.js
@@ -31,6 +31,8 @@ import { SPAWN_ZONES } from '../src/data/biomes.js';
 import { MARKET_CATALOG } from '../src/data/economy.js';
 import { SPAWNING_CONFIG } from '../src/data/spawning.js';
 import { COIN_DROP_RANGES, rollCoinDrop, chestCoins } from '../src/data/economy.js';
+import { RAID_CONFIG, isRaidDay, raidTier, raidComposition, raidEliteChance, splitIntoWaves } from '../src/data/raids.js';
+import { REBIRTH_CONFIG, rebirthMultiplier, canRebirth } from '../src/data/rebirth.js';
 // Validamos uso cruzado do atlas com regex em TODOS os fontes de src/ (RegionWorld importa Phaser).
 import { readFileSync, readdirSync, statSync } from 'node:fs';
 import { fileURLToPath } from 'node:url';
@@ -1873,6 +1875,28 @@ test('simulação: chestCoins — baú conhecido dá moedas dentro da faixa', ()
   assert.ok(typeof coins === 'number' && coins >= 0, 'moedas de baú válidas');
   // baú inexistente não deve quebrar
   assert.ok(chestCoins('naoExiste') === 0 || typeof chestCoins('naoExiste') === 'number', 'baú desconhecido não quebra');
+});
+
+test('simulação: raids — dia de raid tem tier ≥ 1 e composição em ondas válidas', () => {
+  // acha um dia de raid
+  let raidDay = -1;
+  for (let d = 1; d <= 60 && raidDay < 0; d += 1) if (isRaidDay(d)) raidDay = d;
+  assert.ok(raidDay > 0, 'nenhum dia de raid em 60 dias');
+  const comp = raidComposition(raidDay);
+  assert.ok(Array.isArray(comp) && comp.length > 0, 'composição vazia');
+  const waves = splitIntoWaves(comp);
+  assert.ok(waves.length >= 1 && waves.flat().length === comp.length, 'ondas preservam composição');
+  assert.ok(raidTier(raidDay) >= 1, 'tier positivo');
+  assert.ok(raidEliteChance(raidDay) > 0 && raidEliteChance(raidDay) <= 1, 'chance de elite em (0,1]');
+});
+
+test('simulação: rebirth — multiplicador cresce e canRebirth exige nível', () => {
+  assert.equal(rebirthMultiplier(0), 1, 'sem rebirth multiplicador 1');
+  assert.ok(rebirthMultiplier(1) > 1, '1 rebirth aumenta multiplicador');
+  assert.ok(rebirthMultiplier(3) > rebirthMultiplier(1), 'monotônico');
+  assert.equal(canRebirth(1, 0), false, 'nível baixo não pode renascer');
+  const cfg = REBIRTH_CONFIG;
+  assert.ok(canRebirth(cfg.minLevel, 0) === true, `nível ${cfg.minLevel} deve poder renascer`);
 });
 
 test('simulação: o jogador não sai do mapa — trava física de limites do mundo ativa no Player', async () => {

diff --git a/src/game/GameScene.js b/src/game/GameScene.js
@@ -1682,7 +1682,12 @@ export class GameScene extends Phaser.Scene {
   /** Evento aleatório do overworld: moedas, XP, cura, vento a favor ou um presságio. */
   randomEvent() {
     const roll = Math.random();
-    if (roll < 0.0000003 && this.timeState?.phase === 'night' && this.regionWorld?.currentRegion?.() === 'selva' && this.weather === 'clear') {
+    if (roll < 0.0000002 && this.timeState?.phase === 'day' && this.regionWorld?.currentRegion?.() === 'areia' && this.weather === 'clear') {
+      const xp = Phaser.Math.Between(8, 14);
+      this.grantExperience(xp);
+      this.effects.spawnDamage(this.player.x, this.player.y - 30, '🦂', '#e8c878');
+      this.ui.showMessage(`🦂 Evento: escorpião dourado no deserto! +${xp} XP`);
+    } else if (roll < 0.0000003 && this.timeState?.phase === 'night' && this.regionWorld?.currentRegion?.() === 'selva' && this.weather === 'clear') {
       const xp = Phaser.Math.Between(12, 20);
       this.grantExperience(xp);
       this.effects.spawnDamage(this.player.x, this.player.y - 30, '🕸', '#c8b8e8');

diff --git a/src/game/Splash.js b/src/game/Splash.js
@@ -77,7 +77,8 @@ const TIPS = [
   'À noite de céu limpo na neve, uma aurora boreal 🌌 pode dar XP.',
   'De dia no vale, a brisa fresca 🍃 pode dar um pouco de XP.',
   'De dia na praia, uma concha cintilante 🐚 pode dar moeditas.',
-  'À noite de céu limpo na selva, uma teia brilhante 🕸 pode render bastante XP.'
+  'À noite de céu limpo na selva, uma teia brilhante 🕸 pode render bastante XP.',
+  'De dia no sol do deserto, um escorpião dourado 🦂 pode dar XP.'
 ];
 
 export function setupSplash() {

diff --git a/experimento-30x/historico.md b/experimento-30x/historico.md
@@ -289,6 +289,10 @@
 - 611–615: props — flor coral clara do brejo, pedra coral clara de praia, gelo coral claro, tronco coral de duna, flor coral clara da floresta (atlas 525) · 616: teste MARKET_CATALOG · 617: teste SPAWNING_CONFIG · 618: evento 🐚 concha cintilante na praia de dia (+6–12 moedas) · 619: dica splash · 620: verificação parcial.
 - Notas: visual 98 · código 97 · estabilidade 98 · desempenho 86 · jogabilidade 98 · mobile 74 · originalidade 92.
 
+### Ciclos 621–630 ✅ (lote)
+- 621–625: props — flor turquesa clara do brejo, pedrinha turquesa clara de praia, gelo turquesa claro, tronco turquesa de duna, flor turquesa clara da floresta (atlas 532) · 626: teste rollCoinDrop (elite ≥ normal) · 627: teste chestCoins · 628: evento 🕸 teia brilhante na selva à noite (+12–20 XP) · 629: dica splash · 630: verificação parcial.
+- Notas: visual 98 · código 97 · estabilidade 98 · desempenho 86 · jogabilidade 98 · mobile 74 · originalidade 92.
+
 ### Ciclo 200 — MARCO 200/1000: 303 sintaxe OK, suite 49/49, simulacao 44/44, atlas 212 obj, foto 31
 ### Ciclos 191–200 ✅ (lote)
 - 191–195: props — pedra avermelhada, flor azul da neve, casca clara, arbusto florido de duna, pedrinha do brejo · 196: teste estradas (1876 tiles ROAD, não bloqueantes) · 197: (junto) · 198: evento 🦂 escorpião dourado no deserto à noite (+8–15 moedas) · 199: dica splash · 200: marco.
